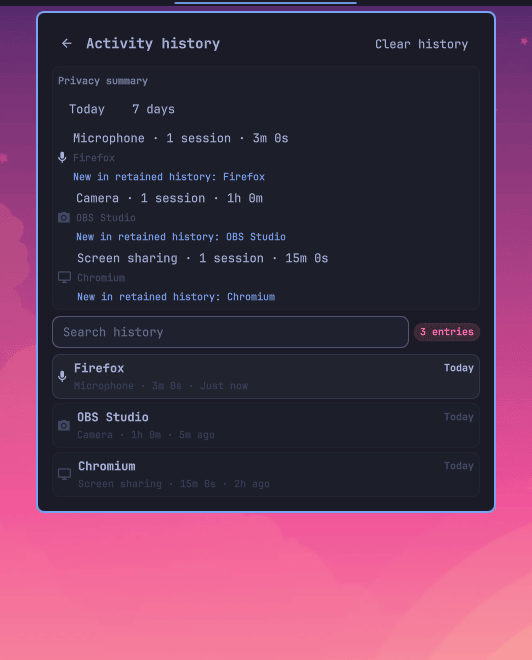
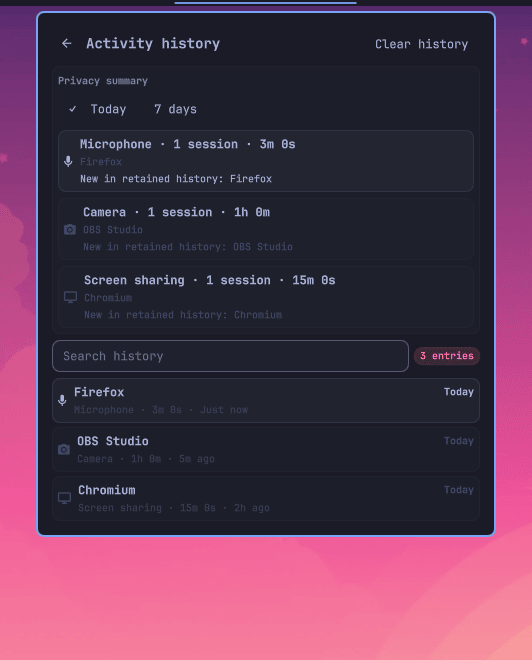
docs: refresh optimized surface evidence

Changed region(s): [[0.0602, 0.1515, 0.9323, 0.8182], [0.3308, 0.6364, 0.391, 0.6667]]

diff --git a/docs/index.html b/docs/index.html
@@ -979,7 +979,7 @@
                 <figure class="gallery-panel" id="detail-device" role="tabpanel" aria-labelledby="tab-detail-device"><img src="device.png" alt="Individual privacy-device settings page" width="532" height="660" loading="lazy" decoding="async"><figcaption><strong>Device</strong> · Per-device appearance, placement, endpoint controls, backend, diagnostics, and resets.</figcaption></figure>
                 <figure class="gallery-panel" id="detail-history" role="tabpanel" aria-labelledby="tab-detail-history"><img src="history.png" alt="Completed privacy activity history view" width="532" height="660" loading="lazy" decoding="async"><figcaption><strong>History</strong> · Search completed activity by device, application, and time.</figcaption></figure>
                 <figure class="gallery-panel" id="detail-history-off" role="tabpanel" aria-labelledby="tab-detail-history-off"><img src="history-disabled.png" alt="Activity history disabled state with link to monitoring settings" width="532" height="240" loading="lazy" decoding="async"><figcaption><strong>History off</strong> · A direct opt-in path keeps private retention explicit.</figcaption></figure>
-                <figure class="gallery-panel" id="detail-private" role="tabpanel" aria-labelledby="tab-detail-private"><img src="monitoring-private.png" alt="Monitoring settings focused on private history and settings transfer" width="532" height="330" loading="lazy" decoding="async"><figcaption><strong>Private data</strong> · Local history plus export, import, and one-step undo.</figcaption></figure>
+                <figure class="gallery-panel" id="detail-private" role="tabpanel" aria-labelledby="tab-detail-private"><img src="monitoring-private.png" alt="Monitoring settings focused on private history and settings transfer" width="532" height="395" loading="lazy" decoding="async"><figcaption><strong>Private data</strong> · Local history plus export, import, and one-step undo.</figcaption></figure>
                 <figure class="gallery-panel" id="detail-health" role="tabpanel" aria-labelledby="tab-detail-health"><img src="monitoring-health.png" alt="Monitoring settings focused on status guidance and observer health" width="532" height="290" loading="lazy" decoding="async"><figcaption><strong>Health</strong> · Live observer status and redacted diagnostics.</figcaption></figure>
               </div>
             </div>

diff --git a/tests/runtime.test.js b/tests/runtime.test.js
@@ -135,7 +135,7 @@ assert.match(screenshotWorkflow, /set_capture_preview\(\)[\s\S]*showBarActiveMar
   "published captures should consistently showcase the default bar status markers")
 assert.match(screenshotWorkflow, /capture_panel history-disabled history "" 240/,
   "the compact disabled-history view should not publish a mostly empty tall crop")
-assert.match(screenshotWorkflow, /capture_panel monitoring-private settings-section monitoring 330 private-data 115/,
+assert.match(screenshotWorkflow, /capture_panel monitoring-private settings-section monitoring 395 private-data 70/,
   "capture must showcase private history and settings transfer at its deep link")
 assert.match(screenshotWorkflow, /capture_panel monitoring-health settings-section monitoring 290 observer-health 390/,
   "capture must showcase observer health at its deep link")

diff --git a/tests/site.test.js b/tests/site.test.js
@@ -25,7 +25,7 @@ assert.deepEqual(pngDimensions("docs/preview.png"), [panelCaptureWidth, 500]);
 assert.deepEqual(pngDimensions("docs/appearance.png"), [panelCaptureWidth, 660]);
 for (const page of ["general", "alerts", "monitoring", "device", "history"])
   assert.deepEqual(pngDimensions(`docs/${page}.png`), [panelCaptureWidth, 660]);
-assert.deepEqual(pngDimensions("docs/monitoring-private.png"), [panelCaptureWidth, 330]);
+assert.deepEqual(pngDimensions("docs/monitoring-private.png"), [panelCaptureWidth, 395]);
 assert.deepEqual(pngDimensions("docs/monitoring-health.png"), [panelCaptureWidth, 290]);
 assert.deepEqual(pngDimensions("docs/history-disabled.png"), [panelCaptureWidth, 240],
   "the disabled history state should be cropped to its compact content");

diff --git a/README.md b/README.md
@@ -13,7 +13,7 @@ screenshots, and screen recording.
 Contributors: [contributing guide](CONTRIBUTING.md) ·
 [architecture](ARCHITECTURE.md) · [security policy](SECURITY.md)
 
-![Privacy Devices activity panel showing live device state and controls](preview.png?v=a96410fcc4f8)
+![Privacy Devices activity panel showing live device state and controls](preview.png?v=a3da03b3846f)
 
 The widget occupies only its privacy-device indicators in the center bar:
 
@@ -21,22 +21,22 @@ The widget occupies only its privacy-device indicators in the center bar:
 
 Activity notifications use the detected application icon when available:
 
-![Privacy Devices notification with an application icon](docs/notification.png?v=2230f689ac60)
+![Privacy Devices notification with an application icon](docs/notification.png?v=9bc0a5674cec)
 
 <details>
 <summary>Settings pages</summary>
 
 | General | Appearance |
 | --- | --- |
-| <img src="docs/general.png?v=a9915049db0c" alt="General settings page" width="360"> | <img src="docs/appearance.png?v=1e9956c90915" alt="Appearance settings page" width="360"> |
+| <img src="docs/general.png?v=2a885ba19e7d" alt="General settings page" width="360"> | <img src="docs/appearance.png?v=553723bf2ec5" alt="Appearance settings page" width="360"> |
 | Alerts | Monitoring |
-| <img src="docs/alerts.png?v=9f99b155a1a5" alt="Alerts settings page" width="360"> | <img src="docs/monitoring.png?v=fd360918f85f" alt="Monitoring settings page" width="360"> |
+| <img src="docs/alerts.png?v=7ddf2cee6121" alt="Alerts settings page" width="360"> | <img src="docs/monitoring.png?v=097258d7abae" alt="Monitoring settings page" width="360"> |
 | Private data | Observer health |
-| <img src="docs/monitoring-private.png?v=05003eb3b807" alt="Private history and settings transfer controls" width="360"> | <img src="docs/monitoring-health.png?v=03aeabb63466" alt="Monitoring status and observer health" width="360"> |
+| <img src="docs/monitoring-private.png?v=62865e371548" alt="Private history and settings transfer controls" width="360"> | <img src="docs/monitoring-health.png?v=dd29db34cc92" alt="Monitoring status and observer health" width="360"> |
 | Individual device settings | Activity history |
-| <img src="docs/device.png?v=a3847354b814" alt="Individual privacy-device settings page" width="360"> | <img src="docs/history.png?v=cb1f02bc6dde" alt="Completed privacy activity history view" width="360"> |
+| <img src="docs/device.png?v=8a5e79242dd3" alt="Individual privacy-device settings page" width="360"> | <img src="docs/history.png?v=5b4416199e3f" alt="Completed privacy activity history view" width="360"> |
 | History disabled | |
-| <img src="docs/history-disabled.png?v=2040f334bf1b" alt="Activity history disabled state" width="360"> | |
+| <img src="docs/history-disabled.png?v=3c408ceda779" alt="Activity history disabled state" width="360"> | |
 
 </details>
 
